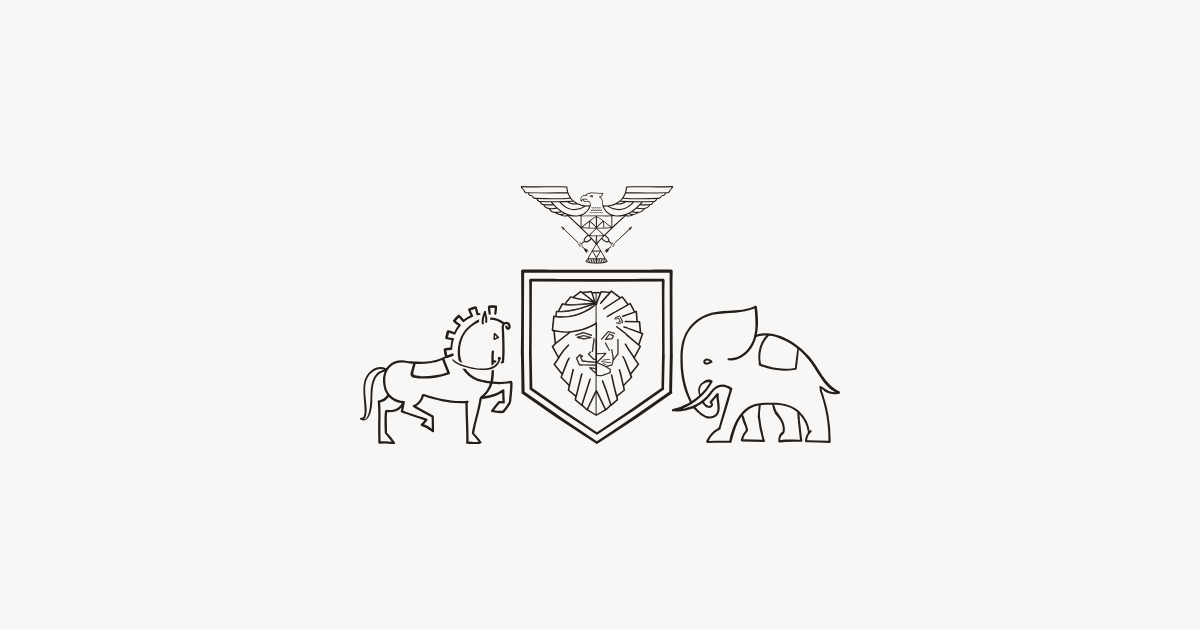
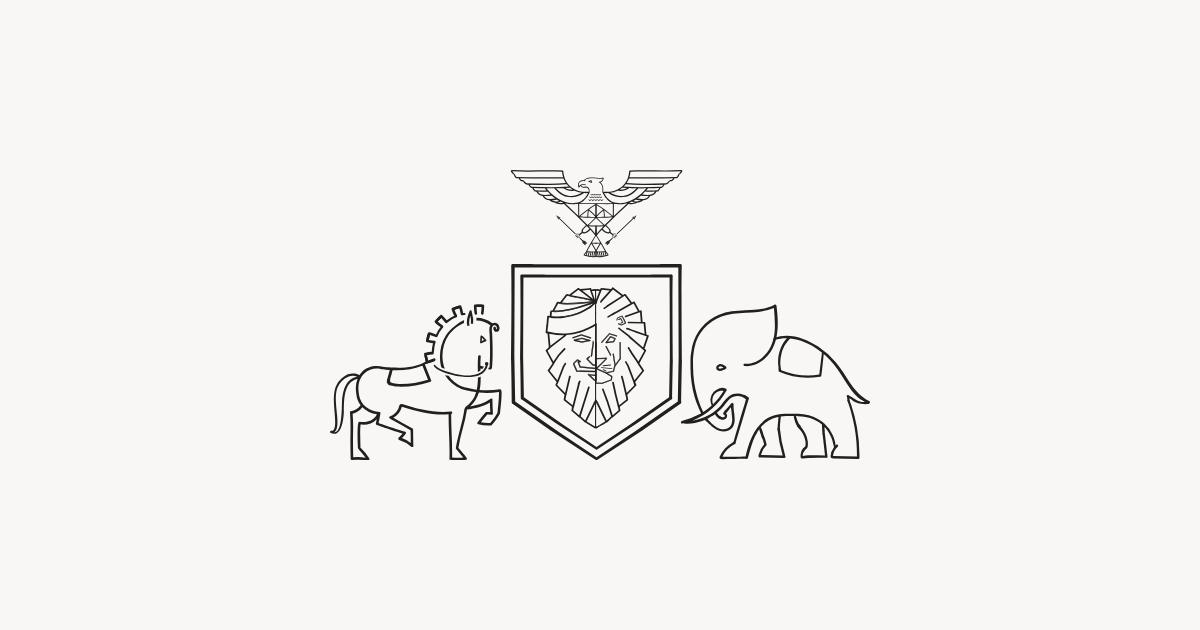
Share image: the crest at 540 wide (approved 13 Nov)
From 480, so the crest reads at WhatsApp's thumbnail size. It still lies
whole inside the square centre crop, 45px clear either side (the
script's check now asks for at least 40).

Claude-Session: https://claude.ai/code/session_01LNqfBYpY4bGLVEHZDf1ohU

Changed region(s): [[0.2775, 0.2714, 0.74, 0.754]]

diff --git a/BRAND_BOOK.md b/BRAND_BOOK.md
@@ -203,7 +203,7 @@ Always leave generous clear space around the logo in any form. As a rule, keep c
 ### 3.6 The site icon
 The favicon and app icons (approved 12 Nov) are the crest's lion alone: the crest clipped to the lion's shield and cropped to the lion, its lines in charcoal `#221F1C` at their original weight on the canvas `#F9F7F5`. One source, `scripts/favicons.mjs`, makes every size (the browser icon at 16, 32 and 48, the 32 PNG, the 180 Apple touch icon, and 192 and 512 for the web app manifest). Change the icon there and run it again; never edit the PNGs by hand.
 
-The share image (approved 12 Nov), what a link to the site shows when it is shared, is the crest's emblem alone: the eagle, the lion's shield, the horse and the elephant, without the HOUSE OF SINGH wordmark and without "Estd." and "MMXIV", its lines in charcoal `#221F1C` on the canvas `#F9F7F5`, centred on 1200 by 630 at 480 wide, so it stays whole in the square centre crop WhatsApp shows (75px clear either side). It is Home's share image and every page's without one of its own; About, Projects, each project, Journal, each entry, a month, Contact and the Shop keep their photograph or card. One source, `scripts/share-image.mjs`, makes `src/app/opengraph-image.png` and `twitter-image.png` and checks the square crop; change it there and run it again.
+The share image (approved 12 Nov), what a link to the site shows when it is shared, is the crest's emblem alone: the eagle, the lion's shield, the horse and the elephant, without the HOUSE OF SINGH wordmark and without "Estd." and "MMXIV", its lines in charcoal `#221F1C` on the canvas `#F9F7F5`, centred on 1200 by 630 at 540 wide (13 Nov, from 480, so it reads at thumbnail size), so it stays whole in the square centre crop WhatsApp shows (45px clear either side). It is Home's share image and every page's without one of its own; About, Projects, each project, Journal, each entry, a month, Contact and the Shop keep their photograph or card. One source, `scripts/share-image.mjs`, makes `src/app/opengraph-image.png` and `twitter-image.png` and checks the square crop; change it there and run it again.
 
 ---
 
